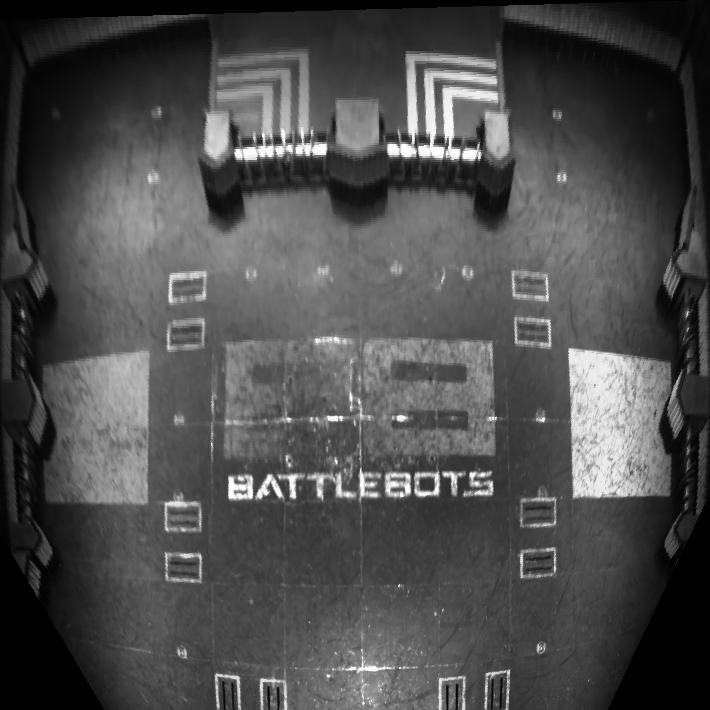
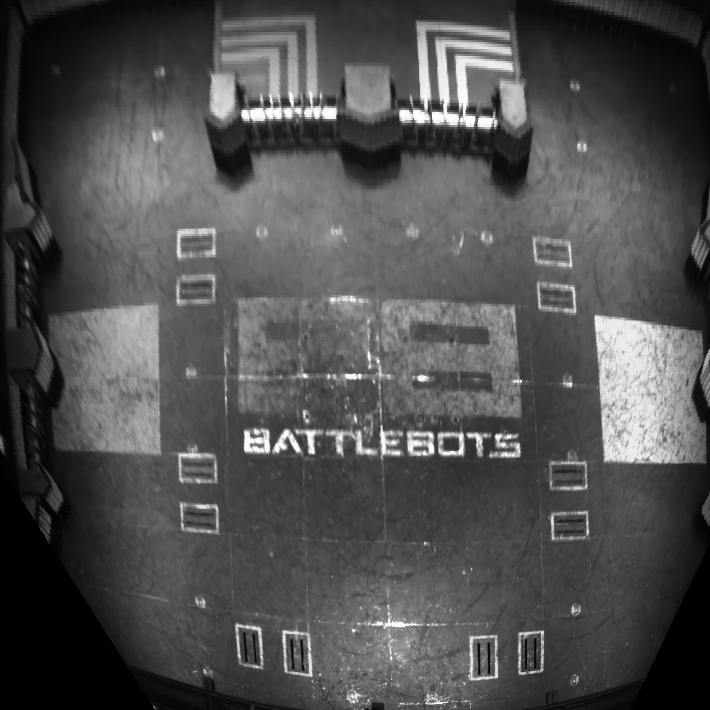
Heuristic GUI minor feature additions and minor bug fixes

diff --git a/RobotController/UIWidgets/FieldWidget.cc b/RobotController/UIWidgets/FieldWidget.cc
@@ -6,6 +6,9 @@
 #include "CameraWidget.h"
 
 FieldWidget* FieldWidget::_instance = nullptr;
+cv::Point2f FieldWidget::leftClickPoint = cv::Point2f(0,0);
+cv::Point2f FieldWidget::rightClickPoint = cv::Point2f(0,0);
+
 
 FieldWidget::FieldWidget() : ImageWidget("Field", RobotController::GetInstance().GetDrawingImage(), false)
 {
@@ -14,7 +17,7 @@ FieldWidget::FieldWidget() : ImageWidget("Field", RobotController::GetInstance()
 
 void FieldWidget::AdjustFieldCrop()
 {
-    if( CameraWidget::LockCamera) { return;}
+    bool enableCrop = !CameraWidget::LockCamera;
     
     static int cornerToAdjust = -1;
     static cv::Point2f mousePosLast = cv::Point2f(0, 0);
@@ -31,15 +34,18 @@ void FieldWidget::AdjustFieldCrop()
     cv::Mat& drawingImage = RobotController::GetInstance().GetDrawingImage();
 
     // draw the corners
-    for (int i = 0; i < 4; i++)
+    if(enableCrop)
     {
-        if (cv::norm(cornerHandles[i] - currMousePos) < CORNER_DIST_THRESH)
+        for (int i = 0; i < 4; i++)
         {
-            cv::circle(drawingImage, cornerHandles[i], CORNER_DIST_THRESH * 1.5, cv::Scalar(255, 100, 255), 2);
-        }
-        else
-        {
-            cv::circle(drawingImage, cornerHandles[i], CORNER_DIST_THRESH, cv::Scalar(255, 0, 255), 2);
+            if (cv::norm(cornerHandles[i] - currMousePos) < CORNER_DIST_THRESH)
+            {
+                cv::circle(drawingImage, cornerHandles[i], CORNER_DIST_THRESH * 1.5, cv::Scalar(255, 100, 255), 2);
+            }
+            else
+            {
+                cv::circle(drawingImage, cornerHandles[i], CORNER_DIST_THRESH, cv::Scalar(255, 0, 255), 2);
+            }
         }
     }
     
@@ -49,7 +55,7 @@ void FieldWidget::AdjustFieldCrop()
         // corner adjustment
 
         // If the user left clicks near one of the corners
-        if (InputState::GetInstance().IsMouseDown(0))
+        if (enableCrop && InputState::GetInstance().IsMouseDown(0))
         {
             if (cornerToAdjust == -1)
             {
@@ -101,6 +107,7 @@ void FieldWidget::AdjustFieldCrop()
             // if the user left clicks, aren't pressing shift, and are over the image, and not near a corner
             if (InputState::GetInstance().IsMouseDown(0))
             {
+                leftClickPoint = currMousePos;
                 // set the robot to the mouse position
                 RobotController::GetInstance().odometry.UpdateForceSetPosAndVel(currMousePos, cv::Point2f{0, 0}, false);
             }
@@ -108,6 +115,7 @@ void FieldWidget::AdjustFieldCrop()
             // if the user right clicks
             if (InputState::GetInstance().IsMouseDown(1))// && input.IsMouseOverImage())
             {
+                rightClickPoint = currMousePos;
                 // set the opponent to the mouse position
                RobotController::GetInstance().odometry.UpdateForceSetPosAndVel(currMousePos, cv::Point2f{0, 0}, true);
             }

diff --git a/RobotController/UIWidgets/ConfigWidget.cc b/RobotController/UIWidgets/ConfigWidget.cc
@@ -5,6 +5,7 @@
 #include "../RobotController.h"
 #include "../Odometry/Heuristic1/HeuristicOdometry.h"
 #include "../../Communication/Communication.h"
+#include "FieldWidget.h"
 
 ConfigWidget::ConfigWidget()
 {
@@ -64,20 +65,37 @@ void ConfigWidget::Draw()
 
     if (ImGui::Button("Auto Lock Us Start Left"))
     {
-        heuristic.MatchStart(cv::Point2f(30, 350), cv::Point2f(700, 350));
+        heuristic.MatchStart(leftStart, rightStart);
     }
     ImGui::SameLine();
     ImGui::Text("     ");
     ImGui::SameLine();
     if (ImGui::Button("Auto Lock Us Start Right"))
     {
-        heuristic.MatchStart(cv::Point2f(30, 350), cv::Point2f(700, 350));
+        heuristic.MatchStart(rightStart, leftStart);
     }
+    ImGui::SameLine();
+    ImGui::Text("  Left Pos=(%g,%g)", leftStart.x, leftStart.y);
+
+    ImGui::SameLine();
+    if (ImGui::Button("Set L-Click"))
+    {
+        leftStart = FieldWidget::leftClickPoint;
+    }
+
+    ImGui::SameLine();
+    ImGui::Text("       Right Pos=(%g,%g)", rightStart.x, rightStart.y);
+    ImGui::SameLine();
+    if (ImGui::Button("Set R-Click"))
+    {
+        rightStart = FieldWidget::rightClickPoint;
+    }
+
     ImGui::Text("BACKGROUND:  ");
     ImGui::SameLine();
     if (ImGui::Button("Load Bg"))
     {
-        heuristic.reinit_bg = true;
+        heuristic.load_background = true;
     }
     ImGui::SameLine();
     if (ImGui::Button("Save Bg"))
@@ -94,13 +112,13 @@ void ConfigWidget::Draw()
     ImGui::SameLine();
     ImGui::Text("  BG Averaging:");
     ImGui::SameLine();
-    ImGui::PushItemWidth(250);
+    ImGui::PushItemWidth(100);
     ImGui::SliderInt("##BGAveraging", &HEU_BACKGROUND_AVGING, 5, 400);
     ImGui::PopItemWidth();
     ImGui::SameLine();
     ImGui::Text("  Obj Decay:");
     ImGui::SameLine();
-    ImGui::PushItemWidth(250);
+    ImGui::PushItemWidth(100);
     ImGui::SliderInt("##UntrackedDecay", &HEU_UNTRACKED_MOVING_BLOB_AVGING, 50, 800);
     ImGui::PopItemWidth();
     ImGui::Checkbox(":EN Healing    ", &heuristic.enable_background_healing);
@@ -147,7 +165,7 @@ void ConfigWidget::Draw()
     ImGui::Text("Num Of Processors:");
     ImGui::SameLine();
     ImGui::PushItemWidth(100); ImGui::SliderInt("##RobProcessors", &HEU_ROBOT_PROCESSORS, 1, 32); ImGui::PopItemWidth();
-    ImGui::SameLine();
+
     ImGui::Checkbox(":Show BG Mat ", &heuristic.show_bg_mat);
     ImGui::SameLine();
     ImGui::Checkbox(":Show FG Mat   ", &heuristic.show_fg_mat);

diff --git a/RobotController/UIWidgets/VariantsWidget.cc b/RobotController/UIWidgets/VariantsWidget.cc
@@ -21,9 +21,14 @@ void VariantsWidget::Draw()
 
     bool isRunning = odometry.IsRunning(OdometryAlg::Blob);
 
-    if (ImGui::Button(isRunning ? "Stop Blob" : "Run Blob"))
+    if( ImGui::Button(ODO_BLOB_ENABLED ? "Stop Blob" : "Run Blob") )
     {
-        if (isRunning)
+        ODO_BLOB_ENABLED = !ODO_BLOB_ENABLED;
+    }
+
+    if( isRunning != ODO_BLOB_ENABLED)
+    {
+        if (!ODO_BLOB_ENABLED)
         {
             odometry.Stop(OdometryAlg::Blob);
         }
@@ -32,6 +37,7 @@ void VariantsWidget::Draw()
             odometry.Run(OdometryAlg::Blob);
         }
     }
+     
 
     ImGui::SameLine();
     ImGui::Text(isRunning ? "Running" : "Stopped");
@@ -42,9 +48,14 @@ void VariantsWidget::Draw()
 
     isRunning = odometry.IsRunning(OdometryAlg::Heuristic);
 
-    if (ImGui::Button(isRunning ? "Stop Heuristic" : "Run Heuristic"))
+    if( ImGui::Button(ODO_HEUR_ENABLED ? "Stop Heuristic" : "Run Heuristic") )
     {
-        if (isRunning)
+        ODO_HEUR_ENABLED = !ODO_HEUR_ENABLED;
+    }
+
+    if( isRunning != ODO_HEUR_ENABLED)
+    {
+        if (!ODO_HEUR_ENABLED)
         {
             odometry.Stop(OdometryAlg::Heuristic);
         }
@@ -65,7 +76,12 @@ void VariantsWidget::Draw()
 
     if (ImGui::Button(isRunning ? "Stop IMU" : "Run IMU"))
     {
-        if (isRunning)
+        ODO_IMU_ENABLED = !ODO_IMU_ENABLED;
+    }
+
+    if( isRunning != ODO_IMU_ENABLED)
+    {
+        if (!ODO_IMU_ENABLED)
         {
             odometry.Stop(OdometryAlg::IMU);
         }
@@ -74,6 +90,7 @@ void VariantsWidget::Draw()
             odometry.Run(OdometryAlg::IMU);
         }
     }
+
 
     ImGui::SameLine();
     ImGui::Text(isRunning ? "Running" : "Stopped");

diff --git a/RobotController/RobotConfig.cc b/RobotController/RobotConfig.cc
@@ -83,7 +83,15 @@ DEFINE_GLOBAL_VARIABLE(bool, LEAD_WITH_BAR, true)
 DEFINE_GLOBAL_VARIABLE(float, FISHEYE_SCALE, 8)
 DEFINE_GLOBAL_VARIABLE(float, FISHEYE_FL, 80)
 DEFINE_GLOBAL_VARIABLE(float, FISHEYE_Y, 0.5)
+DEFINE_GLOBAL_VARIABLE(bool, FISHEYE_ENABLE, false)
 DEFINE_GLOBAL_VARIABLE(bool, WASD_ENABLED, false)
+DEFINE_GLOBAL_VARIABLE(bool, ODO_BLOB_ENABLED, true)
+DEFINE_GLOBAL_VARIABLE(bool, ODO_HEUR_ENABLED, true)
+DEFINE_GLOBAL_VARIABLE(bool, ODO_IMU_ENABLED, true)
+DEFINE_GLOBAL_VARIABLE(float, HEU_LEFTSTART_X, 100)
+DEFINE_GLOBAL_VARIABLE(float, HEU_LEFTSTART_Y, 350)
+DEFINE_GLOBAL_VARIABLE(float, HEU_RIGHTSTART_X, 600)
+DEFINE_GLOBAL_VARIABLE(float, HEU_RIGHTSTART_Y, 350)
 
 GlobalVariable globalVariables[] = {
     DECLARE_GLOBAL_VARIABLE(TURN_THRESH_1_DEG_ORBIT),
@@ -144,9 +152,16 @@ GlobalVariable globalVariables[] = {
     DECLARE_GLOBAL_VARIABLE(FISHEYE_SCALE),
     DECLARE_GLOBAL_VARIABLE(FISHEYE_FL),
     DECLARE_GLOBAL_VARIABLE(FISHEYE_Y),
+    DECLARE_GLOBAL_VARIABLE(FISHEYE_ENABLE),
     DECLARE_GLOBAL_VARIABLE(WASD_ENABLED),
-    DECLARE_GLOBAL_VARIABLE(GO_AROUND_RADIUS),
-    DECLARE_GLOBAL_VARIABLE(LEAD_WITH_BAR)
+    DECLARE_GLOBAL_VARIABLE(LEAD_WITH_BAR),
+    DECLARE_GLOBAL_VARIABLE(ODO_BLOB_ENABLED),
+    DECLARE_GLOBAL_VARIABLE(ODO_HEUR_ENABLED),
+    DECLARE_GLOBAL_VARIABLE(ODO_IMU_ENABLED),
+    DECLARE_GLOBAL_VARIABLE(HEU_LEFTSTART_X),
+    DECLARE_GLOBAL_VARIABLE(HEU_LEFTSTART_Y),
+    DECLARE_GLOBAL_VARIABLE(HEU_RIGHTSTART_X),
+    DECLARE_GLOBAL_VARIABLE(HEU_RIGHTSTART_Y)
 };
 
 void saveGlobalVariablesToFile(const std::string& filename)

diff --git a/RobotController/UIWidgets/RobotControllerGUI.cc b/RobotController/UIWidgets/RobotControllerGUI.cc
@@ -115,11 +115,13 @@ GLFWwindow *RobotControllerGUI::SetupWindow()
 
     glfwWindowHint(GLFW_CONTEXT_VERSION_MAJOR, 3);
     glfwWindowHint(GLFW_CONTEXT_VERSION_MINOR, 0);
-    // glfwWindowHint(GLFW_OPENGL_PROFILE, GLFW_OPENGL_CORE_PROFILE);  // 3.2+
-    // only glfwWindowHint(GLFW_OPENGL_FORWARD_COMPAT, GL_TRUE); // 3.0+ only
+
+    
+    // glfwWindowHint(GLFW_OPENGL_PROFILE, GLFW_OPENGL_CORE_PROFILE);  // 3.2+ only 
+    glfwWindowHint(GLFW_OPENGL_FORWARD_COMPAT, GL_TRUE); // 3.0+ only
 
     // Create window with graphics context
-    GLFWwindow *window = glfwCreateWindow(IMGUI_WIDTH, IMGUI_HEIGHT, "RobotController", nullptr, nullptr);
+    GLFWwindow *window = glfwCreateWindow(IMGUI_WIDTH, IMGUI_HEIGHT, "RobotController",nullptr, nullptr);
     if (window == nullptr)
     {
         // return failure
@@ -128,7 +130,7 @@ GLFWwindow *RobotControllerGUI::SetupWindow()
 
     glfwMakeContextCurrent(window);
     glfwSwapInterval(IMGUI_ENABLE_VSYNC); // Enable vsync
-    glfwIconifyWindow(window); // minimize the starting window
+    // glfwIconifyWindow(window); // minimize the starting window
 
     return window;
 }
@@ -170,6 +172,7 @@ void RobotControllerGUI::SetupIMGUI(GLFWwindow *window)
 
     // Setup Platform/Renderer backends
     ImGui_ImplGlfw_InitForOpenGL(window, true);
+
     // GL 3.0 + GLSL 130
     const char *glsl_version = "#version 130";
 

diff --git a/RobotController/RobotController.cc b/RobotController/RobotController.cc
@@ -116,6 +116,7 @@ void RobotController::Run()
 
     std::cout << "Starting GUI threads..." << std::endl;
 
+    // Initialize GUI on main thread:    
     // run the gui in a separate thread
     std::thread guiThread = std::thread([]() {
         RobotControllerGUI::GetInstance();
@@ -187,8 +188,6 @@ void RobotController::Run()
         // update the mat + allow the user to adjust the crop of the field
         _fieldWidget.AdjustFieldCrop();
         _fieldWidget.UpdateMat(drawingImage);
-
-
     
     // if save video is enabled, save the frame
 #ifdef SAVE_VIDEO

diff --git a/RobotController/UIWidgets/CameraWidget.cc b/RobotController/UIWidgets/CameraWidget.cc
@@ -16,6 +16,7 @@ void CameraWidget::Draw()
     ImGui::Begin("Camera");
 
     ImGui::Checkbox("Lock Camera", &LockCamera);
+    DoFisheye = FISHEYE_ENABLE;
 
     if( !LockCamera) {    
         if( ImGui::Button("Reset Pre-Process Corners") )
@@ -32,7 +33,8 @@ void CameraWidget::Draw()
             
         }
 
-        ImGui::Checkbox("Enable Fisheye", &DoFisheye);
+        ImGui::Checkbox("Enable Fisheye", &FISHEYE_ENABLE);
+        DoFisheye = FISHEYE_ENABLE;
         if( DoFisheye)
         {
             ImGui::Text("Fisheye Compensation:");

diff --git a/RobotController/RobotConfig.h b/RobotController/RobotConfig.h
@@ -71,8 +71,17 @@ extern int GO_AROUND_RADIUS;
 extern float FISHEYE_SCALE;
 extern float FISHEYE_FL;
 extern float FISHEYE_Y;
+extern bool FISHEYE_ENABLE;
 extern bool WASD_ENABLED;
 extern bool LEAD_WITH_BAR;
+extern bool ODO_BLOB_ENABLED;
+extern bool ODO_HEUR_ENABLED;
+extern bool ODO_IMU_ENABLED;
+extern float HEU_LEFTSTART_X;
+extern float HEU_LEFTSTART_Y;
+extern float HEU_RIGHTSTART_X;
+extern float HEU_RIGHTSTART_Y;
+
 
 template <typename T>
 std::string convertValueToString(const T &value);

diff --git a/RobotController/Odometry/Heuristic1/HeuristicOdometry.cc b/RobotController/Odometry/Heuristic1/HeuristicOdometry.cc
@@ -153,9 +153,8 @@ void HeuristicOdometry::_ProcessNewFrame(cv::Mat currFrame, double frameTime)
 
     if (load_background)
     {
-
-        _allRobotTrackersClear();
-        all_bboxes.clear();
+        //_allRobotTrackersClear();
+        // all_bboxes.clear();
         LoadBackground(newFrame);
         load_background = false;
     }

diff --git a/RobotController/UIWidgets/ConfigWidget.h b/RobotController/UIWidgets/ConfigWidget.h
@@ -1,9 +1,13 @@
 #pragma once
 #include "imgui.h"
+#include <opencv2/opencv.hpp>
+#include "../RobotConfig.h"
 
 class ConfigWidget
 {
 public:
     ConfigWidget();
     void Draw();
+    cv::Point2f leftStart = cv::Point2f(HEU_LEFTSTART_X, HEU_LEFTSTART_Y);
+    cv::Point2f rightStart = cv::Point2f(HEU_RIGHTSTART_X, HEU_RIGHTSTART_Y);
 };

diff --git a/RobotController/VisionPreprocessor.cc b/RobotController/VisionPreprocessor.cc
@@ -57,7 +57,7 @@ void VisionPreprocessor::Preprocess(cv::Mat &frame, cv::Mat &dst)
     cv::Mat map1, map2;
     cv::Mat outputImage;
 
-    if( CameraWidget::DoFisheye)
+    if( FISHEYE_ENABLE)
     {
         _generateCameraParameters(FISHEYE_FL, FISHEYE_SCALE, FISHEYE_Y, frame.size(), K, D);
 

diff --git a/RobotController/UIWidgets/FieldWidget.h b/RobotController/UIWidgets/FieldWidget.h
@@ -14,4 +14,7 @@ public:
 
     static FieldWidget* GetInstance();
     static FieldWidget* _instance;
+    static cv::Point2f leftClickPoint;
+    static cv::Point2f rightClickPoint;
+
 };
